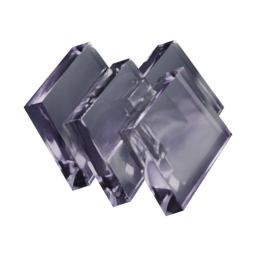
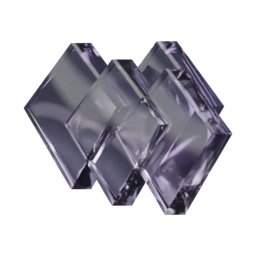
Present the bolts and gems at the coins' angle
-30 degrees about the screen vertical and nothing else, the same turn the
coins and the event token take, so every face-on piece in the game is
presented at one angle instead of each having its own. The 9 degree drop
that went with the old +26 is gone for the same reason: the coins have no
drop, and it only tipped these out of line with them.

It also fixed the chalky blue for free, which the view transform was
being blamed for. Square-ish to the key light the bolt's face blew out
and AgX desaturated the highlight; turned away from it the same material
comes back 0x3784ac instead of 0x8ab7d6, against a chain colour of
0x24a9e8.

Fill ratios re-measured: energy 0.615 to 0.641, gem 0.589 to 0.578.

Changed region(s): [[0.0938, 0.1562, 0.9062, 0.8438]]

diff --git a/src/game/objects/itemSprites.ts b/src/game/objects/itemSprites.ts
@@ -47,7 +47,7 @@ export function itemSpriteKey(typeId: string, tier: number): string {
  * A version in the query string makes the URL new, so every client refetches
  * once and then caches again normally.
  */
-export const ITEM_ART_VERSION = 7;
+export const ITEM_ART_VERSION = 8;
 
 /** Where the renderer writes it, relative to `public/`. */
 export function itemSpritePath(typeId: string, tier: number): string {

diff --git a/src/game/ui/CurrencyGlyph.ts b/src/game/ui/CurrencyGlyph.ts
@@ -146,7 +146,7 @@ export function currencyTexture(scene: Phaser.Scene, kind: CurrencyKind): string
  * different ladder and these have to be measured again.
  */
 const RENDER_FILL_RATIO: Record<CurrencyKind, number> = {
-  credit: 0.867, gem: 0.589, energy: 0.615
+  credit: 0.867, gem: 0.578, energy: 0.641
 };
 
 /**

diff --git a/tools/blender/render_items.py b/tools/blender/render_items.py
@@ -1267,10 +1267,14 @@ def facing_profile(ob):
     view = Euler((math.pi / 2 - ELEVATION, 0.0, AZIMUTH)).to_quaternion()
     forward = view @ Vector((0, 0, -1))
     ob.rotation_euler = (-forward).to_track_quat('Y', 'Z').to_euler()
-    swing = Matrix.Rotation(math.radians(26), 4, view @ Vector((0, 1, 0)))
-    drop = Matrix.Rotation(math.radians(-9), 4, view @ Vector((1, 0, 0)))
+    # -30 about the screen vertical, and NOTHING else. The same turn the
+    # coins and the event token take, so every face-on piece in the game is
+    # presented at one angle instead of each having its own. The 9 degree
+    # drop that used to go with it is gone for the same reason: the coins do
+    # not have one, and it only tipped these out of line with them.
+    swing = Matrix.Rotation(math.radians(-30), 4, view @ Vector((0, 1, 0)))
     ob.rotation_euler = (
-        drop @ swing @ ob.rotation_euler.to_matrix().to_4x4()
+        swing @ ob.rotation_euler.to_matrix().to_4x4()
     ).to_euler()
     return ob
 
